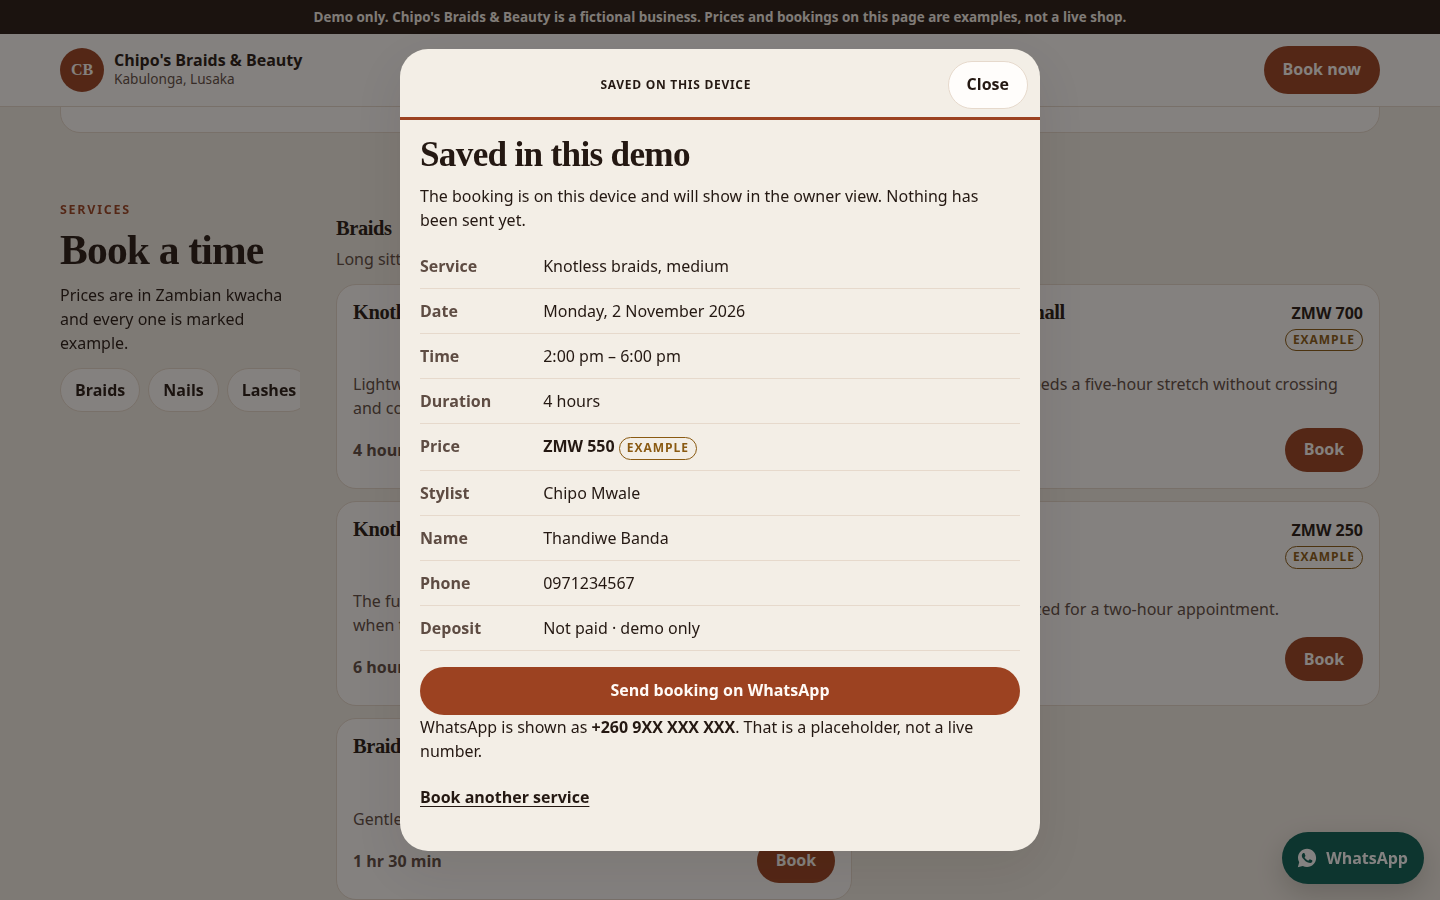
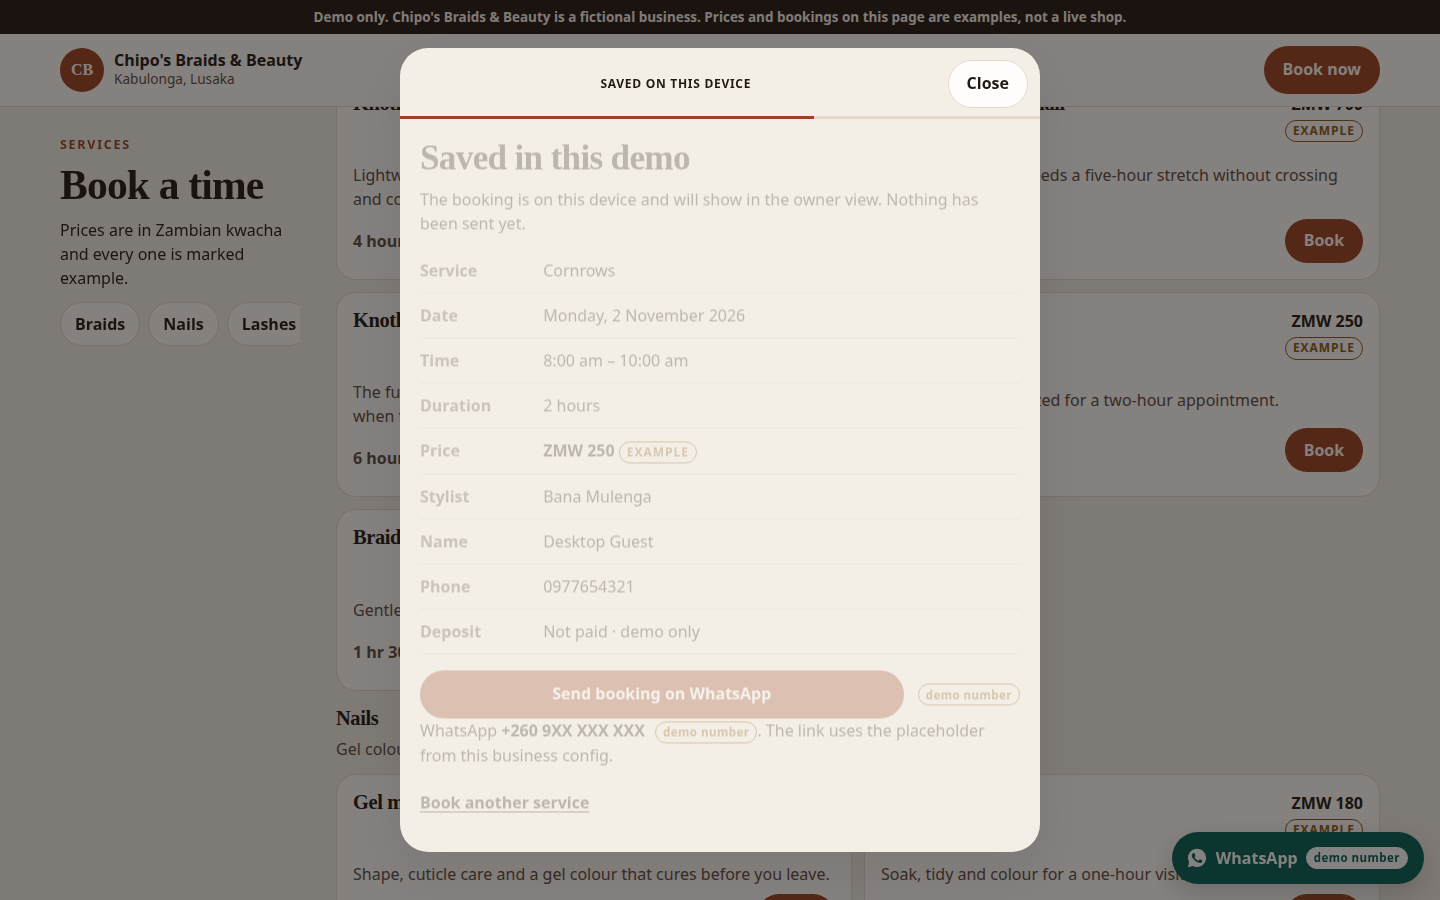
docs: update the flow, seed rules and screenshots
The readme matches the new step order and the open-day sample data.

diff --git a/README.md b/README.md
@@ -67,16 +67,16 @@ Sample bookings and blocked times live in `public/data/seed.json`, keyed by the 
 1. Pick a service. Prices show the kwacha amount and the word example.
 2. Optionally pick a staff member, or leave no preference.
 3. Pick a date. Closed days are visible and cannot be selected.
-4. Pick a time. Slots that are already booked, blocked, already started today, or too short for the service are hidden.
-5. Enter a name and phone number.
-6. Optionally open the Mobile Money step. It lists MTN MoMo, Airtel Money and Zamtel. It is marked **Demo**. Nothing is charged and nothing is sent to a provider.
-7. Confirm. The booking is saved in this browser and a WhatsApp link is built with the service, date, time, duration, example price, name and phone.
+4. Pick a time. Open times are clickable. A booked or impossible time stays on the grid in grey, labelled unavailable. A long run collapses into one row, such as `Fully booked 08:00-14:00`.
+5. Enter a name and phone number, then review the booking.
+6. Optionally open the Mobile Money step. It lists MTN MoMo, Airtel Money and Zamtel. It is marked **Demo**. Nothing is charged and nothing is sent to a provider. This step comes after the review.
+7. Confirm on WhatsApp. The booking is saved in this browser and a `wa.me` link is built with the service, date, time, duration, example price, name and phone. The number is read from the config and labelled **demo number**.
 
 A four-hour braid only appears when the whole sitting fits before closing, misses the lunch break, and does not overlap a booking or a block. Knotless braids, jumbo (six hours) only fit on Wednesday at the salon, because that is the day without a lunch break.
 
 ## Owner view
 
-`owner.html` is a demo. The page says **Demo owner view, no login in this demo.** There is no password.
+`owner.html` is a demo. It says **Demo: no login** and keeps the longer note, **Demo owner view, no login in this demo.** There is no password. On a phone the header is compact and scrolls away, so it does not cover the day's stats.
 
 From a chosen day you can:
 
@@ -122,7 +122,7 @@ Opening hours are keyed by weekday. `null` means closed. `breaks` are times the 
 
 ### Seed file
 
-`public/data/seed.json` uses `dayOffset` from today in Lusaka, not a fixed calendar date, so the sample day stays current. `0` is today, `1` is tomorrow, `-1` is yesterday.
+`public/data/seed.json` uses `dayOffset` from today in Lusaka, not a fixed calendar date. The offset counts **open** days: `0` is today when today is open, otherwise the next open day, and a negative offset walks backward through open days. Closed days, such as Sunday at the salon, never receive sample bookings or blocks. Each preset has exactly one `no-show`, on that open “today”, so the no-show count is visible. The sample is rebuilt when the calendar day changes; bookings you added stay.
 
 ```json
 {
@@ -200,7 +200,7 @@ A start time is offered only when all of these are true:
 - the same is true for blocked time, including whole-shop blocks
 - the start is not already in the past when the date is today
 
-No-show and cancelled bookings do not hide a slot.
+No-show and cancelled bookings do not hide a slot. The time list still shows those starts that cannot be booked: one or two as grey unavailable buttons, and three or more as a single row. `getSlotTimeline` builds that list. `getAvailableSlots` is the bookable subset.
 
 ## Deploy
 
